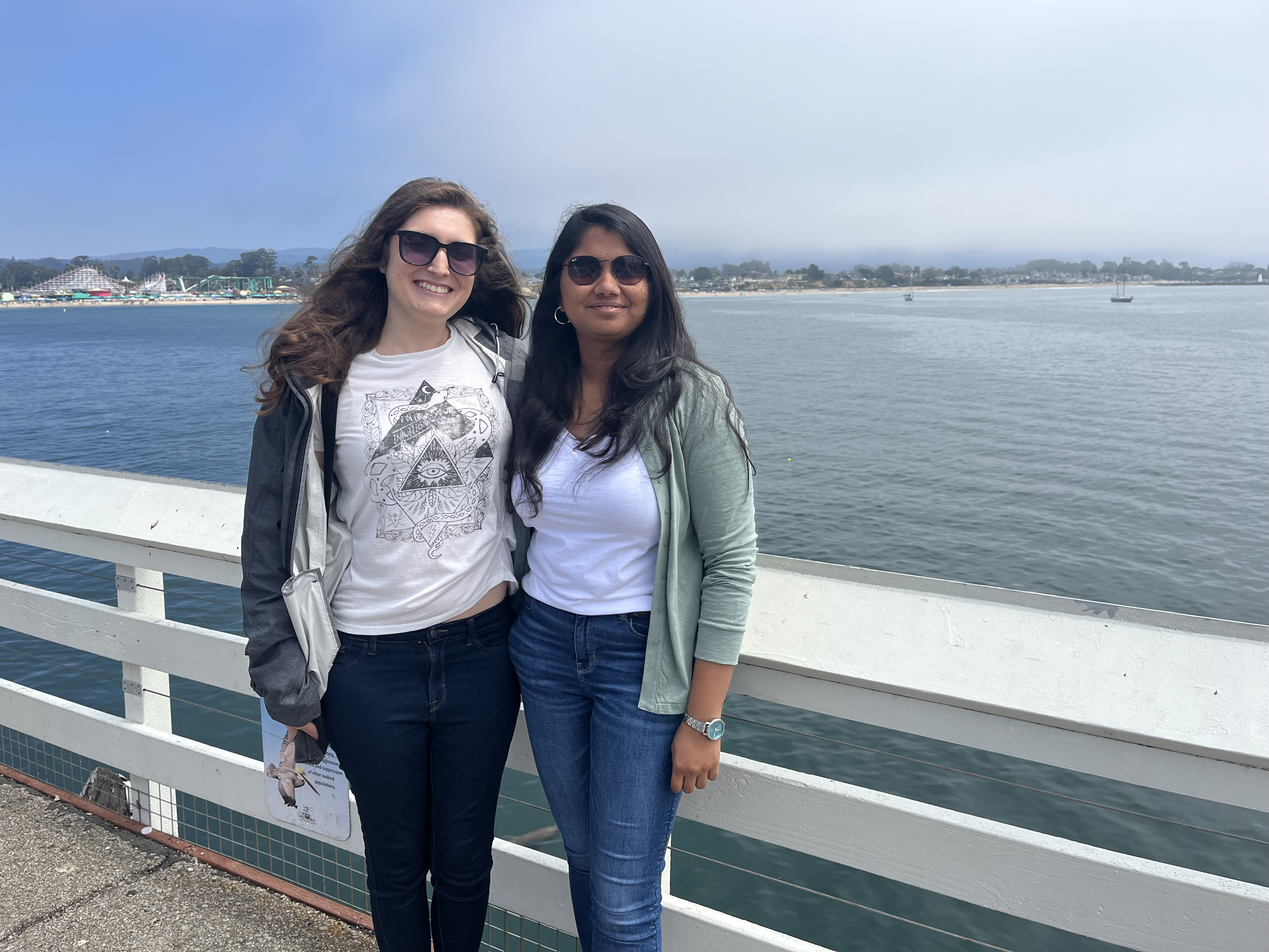
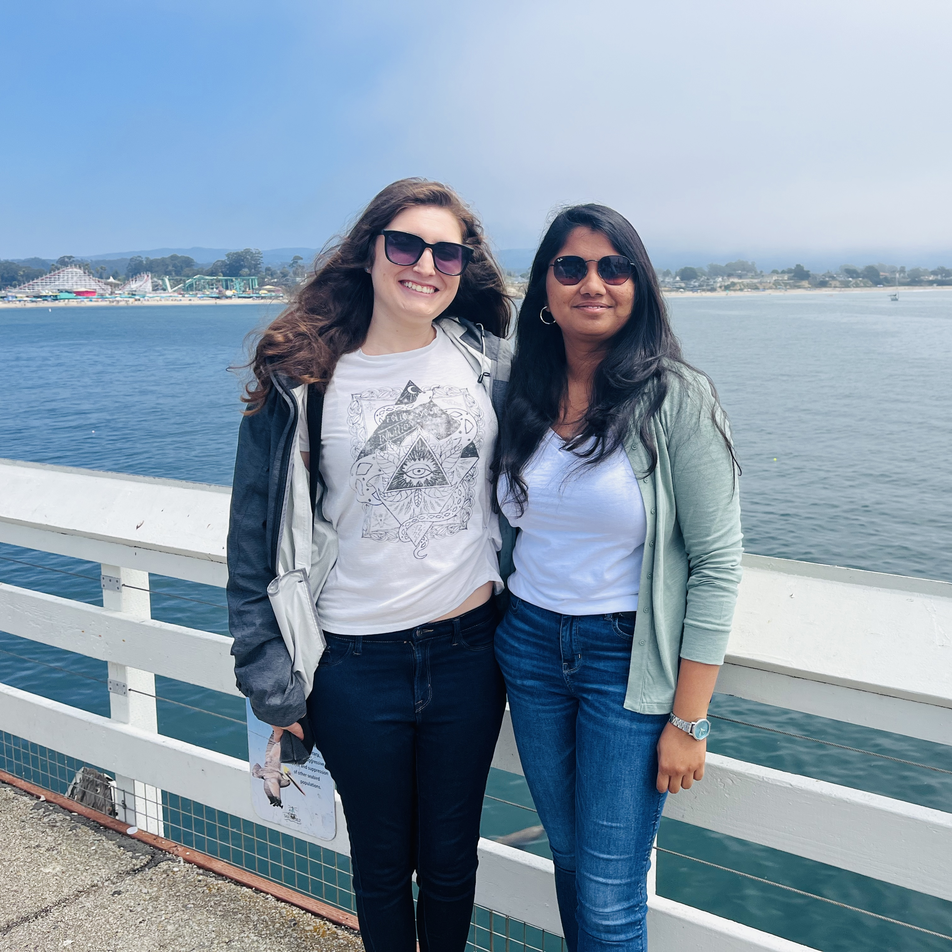
Updated registry page, crop photos.

diff --git a/registry.html b/registry.html
@@ -1,190 +1,168 @@
 <!DOCTYPE html>
-<html lang="en">
-<head>
-    <meta charset="UTF-8">
-    <meta name="viewport" content="width=device-width, initial-scale=1.0">
-    <title>K&K Wedding & Registry</title>
-    <style>
-        body {
-            font-family: Arial, sans-serif;
-            text-align: center;
-            background: linear-gradient(to bottom, #e6e6fa, #ffffff);
-            background-size: cover;
-            background-position: center;
-            background-image: url('background-image.jpg');
-            padding: 20px;
-            color: #4a148c;
-            margin: 0;
-            position: relative;
-        }
-        body::before {
-            content: "";
-            position: absolute;
-            top: 0;
-            left: 0;
-            width: 100%;
-            height: 100%;
-            background: rgba(255, 255, 255, 0.5); /* Light overlay for better readability */
-            z-index: -1;
-        }
-        .header {
-            height: 150px;
-            background-color: #e6e6fa;
-            background: transparent;
-        }
-        .container {
-            max-width: 600px;
-            margin: auto;
-            background: #ffffff;
-            padding: 20px;
-            border-radius: 10px;
-            box-shadow: 0 4px 15px rgba(0, 0, 0, 0.2);
-            color: #222222;
-            position: relative;
-            border: 3px solid #9575cd;
-        }
-        .photos {
-            display: grid;
-            grid-template-columns: repeat(auto-fit, minmax(120px, 1fr));
-            gap: 10px;
-            justify-content: center;
-            margin-top: 20px;
-        }
-        .photos img {
-            width: 100%;
-            height: 120px;
-            object-fit: cover;
-            border-radius: 5px;
-        }
-        .message {
-            margin-top: 20px;
-            font-size: 18px;
-            font-style: italic;
-            font-weight: bold;
-            color: #4a148c;
-        }
-        .registry-link {
-            display: inline-block;
-            margin-top: 20px;
-            padding: 10px 15px;
-            background-color: #6a1b9a;
-            color: white;
-            text-decoration: none;
-            border-radius: 5px;
-            box-shadow: 0 2px 5px rgba(0, 0, 0, 0.2);
-        }
-        .fh5co-nav {
-            position: fixed;
-            width: 100%;
-            top: 0;
-            left: 0;
-            z-index: 1000;
-            padding: 15px 0;
-            margin-top: 30px;
-            background: transparent;
-        }
-        .fh5co-nav ul {
-            list-style: none;
-            padding: 0;
-            margin: 0;
-            text-align: center;
-            display: flex;
-            justify-content: center;
-            gap: 30px;
-        }
-        .fh5co-nav ul li {
-            display: inline;
-        }
-        .fh5co-nav ul li a {
-            color: #4a148c;
-            text-decoration: none;
-            font-weight: bold;
-            font-size: 18px;
-        }
-        footer {
-            margin-top: 30px;
-            padding: 10px;
-            background-image: url('footer-image.jpg');
-            background-size: cover;
-            color: #ffffff;
-        }
+<!--[if lt IE 7]>      <html class="no-js lt-ie9 lt-ie8 lt-ie7"> <![endif]-->
+<!--[if IE 7]>         <html class="no-js lt-ie9 lt-ie8"> <![endif]-->
+<!--[if IE 8]>         <html class="no-js lt-ie9"> <![endif]-->
+<!--[if gt IE 8]><!--> <html class="no-js"> <!--<![endif]-->
+	<head>
+	<meta charset="utf-8">
+	<meta http-equiv="X-UA-Compatible" content="IE=edge">
+	<title>Wedding &mdash; 100% Free Fully Responsive HTML5 Template by FREEHTML5.co</title>
+	<meta name="viewport" content="width=device-width, initial-scale=1">
+	<meta name="description" content="Free HTML5 Template by FREEHTML5.CO" />
+	<meta name="keywords" content="free html5, free template, free bootstrap, html5, css3, mobile first, responsive" />
+	<meta name="author" content="FREEHTML5.CO" />
 
-        /* Mobile responsiveness */
-        @media (max-width: 768px) {
-            .container {
-                padding: 15px;
-            }
-            .photos {
-                grid-template-columns: 1fr 1fr;
-            }
-            .photos img {
-                height: 100px;
-            }
-            .fh5co-nav ul {
-                gap: 15px;
-            }
-            .fh5co-nav ul li a {
-                font-size: 16px;
-            }
-            .message {
-                font-size: 16px;
-            }
-            .registry-link {
-                padding: 8px 12px;
-                font-size: 16px;
-            }
-        }
+  <!-- 
+	//////////////////////////////////////////////////////
 
-        @media (max-width: 480px) {
-            .fh5co-nav ul {
-                flex-direction: column;
-            }
-            .fh5co-nav ul li a {
-                font-size: 14px;
-                padding: 10px 0;
-            }
-            .photos {
-                grid-template-columns: 1fr;
-            }
-            .photos img {
-                height: 80px;
-            }
-            .message {
-                font-size: 14px;
-            }
-            .registry-link {
-                padding: 6px 10px;
-                font-size: 14px;
-            }
-        }
-    </style>
-</head>
-<body>
-    <nav class="fh5co-nav" role="navigation">
-        <ul>
-            <li><a href="index.html">Home</a></li>
-            <li><a href="index.html">Story</a></li>
-            <li><a href="index.html">Gallery</a></li>
-            <li><a href="index.html">Contact</a></li>
-            <li><a href="registry.html">Registry</a></li>
-        </ul>
-    </nav>
-    
-    <div class="header"></div>
-    
-    <div class="container">
-        <h2>Our Wedding Registry</h2>
-        <p class="message">Your presence at our wedding is the greatest gift we could ask for. We feel incredibly lucky to celebrate this special moment with you. If you'd like to share in our joy with a gift, we've curated a registry of things we love. Your kindness and support mean the world to us!</p>
-        <a class="registry-link" href="https://registry.theknot.com/-april-2026-ca/70187649">Visit Our Registry</a>
-        <div class="photos">
-            <img src="photo1.jpg" alt="Our Photo 1">
-            <img src="photo2.jpg" alt="Our Photo 2">
-            <img src="photo3.jpg" alt="Our Photo 3">
+	FREE HTML5 TEMPLATE 
+	DESIGNED & DEVELOPED by FREEHTML5.CO
+		
+	Website: 		https://freehtml5.co/
+	Email: 			info@freehtml5.co
+	Twitter: 		https://twitter.com/fh5co
+	Facebook: 		https://www.facebook.com/fh5co
+
+	//////////////////////////////////////////////////////
+	 -->
+
+  	<!-- Facebook and Twitter integration -->
+	<meta property="og:title" content=""/>
+	<meta property="og:image" content=""/>
+	<meta property="og:url" content=""/>
+	<meta property="og:site_name" content=""/>
+	<meta property="og:description" content=""/>
+	<meta name="twitter:title" content="" />
+	<meta name="twitter:image" content="" />
+	<meta name="twitter:url" content="" />
+	<meta name="twitter:card" content="" />
+
+	<link href='https://fonts.googleapis.com/css?family=Work+Sans:400,300,600,400italic,700' rel='stylesheet' type='text/css'>
+	<link href="https://fonts.googleapis.com/css?family=Sacramento" rel="stylesheet">
+	
+	<!-- Animate.css -->
+	<link rel="stylesheet" href="css/animate.css">
+	<!-- Icomoon Icon Fonts-->
+	<link rel="stylesheet" href="css/icomoon.css">
+	<!-- Bootstrap  -->
+	<link rel="stylesheet" href="css/bootstrap.css">
+
+	<!-- Magnific Popup -->
+	<link rel="stylesheet" href="css/magnific-popup.css">
+
+	<!-- Owl Carousel  -->
+	<link rel="stylesheet" href="css/owl.carousel.min.css">
+	<link rel="stylesheet" href="css/owl.theme.default.min.css">
+
+	<!-- Theme style  -->
+	<link rel="stylesheet" href="css/style.css">
+
+	<!-- Modernizr JS -->
+	<script src="js/modernizr-2.6.2.min.js"></script>
+	<!-- FOR IE9 below -->
+	<!--[if lt IE 9]>
+	<script src="js/respond.min.js"></script>
+	<![endif]-->
+
+	</head>
+	<body>
+		
+	<div class="fh5co-loader"></div>
+	
+	<div id="page">
+	<nav class="fh5co-nav" role="navigation">
+		<div class="container">
+			<div class="row">
+				<div class="col-xs-2">
+					<div id="fh5co-logo"><a href="index.html">Wedding<strong>.</strong></a></div>
+				</div>
+				<div class="col-xs-10 text-right menu-1">
+					<ul>
+						<li class="active"><a href="index.html">Home</a></li>
+						<li><a href="index.html">Story</a></li>
+						<li><a href="index.html">Gallery</a></li>
+						<li><a href="index.html">Contact</a></li>
+						<li><a href="registry.html">Registry</a></li>
+					</ul>
+				</div>
+			</div>
+			
+		</div>
+	</nav>
+
+	<header id="fh5co-header" class="fh5co-cover fh5co-cover-sm" role="banner" style="background-image:url(images/us.jpeg);">
+		<div class="overlay"></div>
+		<div class="fh5co-container">
+			<div class="row">
+				<div class="col-md-8 col-md-offset-2 text-center">
+					<div class="display-t">
+						<div class="display-tc animate-box" data-animate-effect="fadeIn">
+							<h1>Registry</h1>
+                            <h2>Your presence at our wedding is the greatest gift we could ask for. We feel incredibly lucky to celebrate this special moment with you. If you'd like to share in our joy with a gift, we've curated a registry of things we love. Your kindness and support mean the world to us!</h2>
+                            <a class="btn btn-primary btn-primary-outline-0 py-3 px-5" href="https://registry.theknot.com/-april-2026-ca/70187649" style="margin-bottom: 20px;" target="_blank">Marriage Visit Our Registry</a>
+
+						</div>
+					</div>
+				</div>
+			</div>
+		</div>
+	</header>
+
+    <div class="container custom-container">
+        <div class="row">
+            <div class="col-lg-4 col-md-6 col-sm-12 col-xs-12">
+                <img src="photo1.jpg" alt="Our Photo 1" class="custom-image">
+            </div>
+            <div class="col-lg-4 col-md-6 col-sm-12 col-xs-12">
+                <img src="photo2.jpg" alt="Our Photo 2" class="custom-image">
+            </div>
+            <div class="col-lg-4 col-md-6 col-sm-12 col-xs-12">
+                <img src="photo3.jpg" alt="Our Photo 3" class="custom-image">
+            </div>
         </div>
     </div>
-    
-    <footer>
-        <p>&copy; 2026 K&K Wedding | Designed with Love</p>
-    </footer>
+
+<footer id="fh5co-footer" role="contentinfo">
+		<div class="container">
+
+			<div class="row copyright">
+				<div class="col-md-12 text-center">
+					<p>
+						<small class="block">&copy; 2026 K&K Wedding | Designed with Love</small> 
+					</p>
+				</div>
+			</div>
+
+		</div>
+	</footer>
+</div>
+
+<div class="gototop js-top">
+    <a href="#" class="js-gotop"><i class="icon-arrow-up"></i></a>
+</div>
+
+<!-- jQuery -->
+<script src="js/jquery.min.js"></script>
+<!-- jQuery Easing -->
+<script src="js/jquery.easing.1.3.js"></script>
+<!-- Bootstrap -->
+<script src="js/bootstrap.min.js"></script>
+<!-- Waypoints -->
+<script src="js/jquery.waypoints.min.js"></script>
+<!-- Carousel -->
+<script src="js/owl.carousel.min.js"></script>
+<!-- countTo -->
+<script src="js/jquery.countTo.js"></script>
+
+<!-- Stellar -->
+<script src="js/jquery.stellar.min.js"></script>
+<!-- Magnific Popup -->
+<script src="js/jquery.magnific-popup.min.js"></script>
+<script src="js/magnific-popup-options.js"></script>
+
+<!-- // <script src="https://cdnjs.cloudflare.com/ajax/libs/prism/0.0.1/prism.min.js"></script> -->
+<script src="js/simplyCountdown.js"></script>
+<!-- Main -->
+<script src="js/main.js"></script>
 </body>
 </html>

diff --git a/css/style.css b/css/style.css
@@ -1854,3 +1854,15 @@ form label {
   -moz-box-shadow: 0px 14px 30px -15px rgba(0, 0, 0, 0.75);
   box-shadow: 0px 14px 30px -15px rgba(0, 0, 0, 0.75);
 }
+
+.custom-image {
+  width: 100%;
+  border-radius: 10px;
+  box-shadow: 0px 14px 30px -15px rgba(0, 0, 0, 0.75);
+}
+
+.custom-container {
+  margin-top: 50px;
+  margin-bottom: 50px;
+  padding: 20px;
+}
